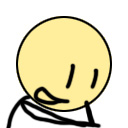
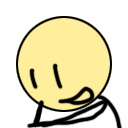
BR80-Fixed button timer, added disable, flipped Face_Working_2.jpg

Changed region(s): [[0.0312, 0.5312, 0.9688, 1.0], [0.4062, 0.4688, 0.5938, 0.7188]]

diff --git a/main.js b/main.js
@@ -1,37 +1,8 @@
 var app = angular.module("myApp", []);
 
-app.directive("superman", function() {
-    return {
-        restrict: "E",
-        template: "<div>Here I am to save the day</div>"
-    }
-})
-
-function Main($scope)
-{
-    $scope.message = "Hello!"
-
-}
-
-app.directive('tooltip', function () {
-    return {
-        restrict:'AEC',
-        link: function(scope, element, attrs)
-        {
-            $(element)
-                .attr('title',scope.$eval(attrs.tooltip))
-                .tooltip({placement: "right"});
-        }
-    }
-})
 
 
-$scope.clear = function () {
-    $scope.dt = null;
-};
-
-
-function ClassroomCtrl($scope,$timeout)
+app.controller('ClassroomCtrl', ['$scope', '$timeout', function($scope,$timeout)
 {
 	// Dictionary with game and player variables
 	$scope.game = {
@@ -42,24 +13,74 @@ function ClassroomCtrl($scope,$timeout)
 	// Array with students
 	$scope.students = [
         {
-                "name":"Riley"
+                "name":"Riley",
+                "math":1,
+                "reading":1,
+                "writing":1,
+                "discipline":1
         },
         {
-                "name":"Kelly"
+                "name":"Kelly",
+                "math":1,
+                "reading":1,
+                "writing":1,
+                "discipline":1
         },
         {
-                "name":"Alex"
+                "name":"Alex",
+                "math":1,
+                "reading":1,
+                "writing":1,
+                "discipline":1
         },
         {
-                "name":"Taylor"
+                "name":"Taylor",
+                "math":1,
+                "reading":1,
+                "writing":1,
+                "discipline":1
         },
         {
-                "name":"Morgan"
+                "name":"Morgan",
+                "math":1,
+                "reading":1,
+                "writing":1,
+                "discipline":1
         },
         {
-                "name":"Jesse"
+                "name":"Jesse",
+                "math":1,
+                "reading":1,
+                "writing":1,
+                "discipline":1
         }
 	];
+	
+	// Function to return a student entry in the array.
+	$scope.getStudent = function(studentName)
+	{
+		retString = ""
+		for (var i = 0 ; i < $scope.students.length ; i++)
+		{
+			if ($scope.students[i]["name"] == studentName)
+				return $scope.students[i];
+			else
+				retString += $scope.students[i]["name"];
+		}
+		return retString;
+	}
+	
+	// Generate tooltip text (shows stats)
+	$scope.studentTooltip = function(studentName)
+	{
+		var student = $scope.getStudent(studentName);
+		var retString = student["name"];
+        retString += "\nMath: " + student["math"];
+        retString += "\nReading: " + student["reading"];
+        retString += "\nWriting: " + student["writing"];
+        retString += "\nDiscipline: " + student["discipline"];
+        return retString;
+	}
 	
 
 	// Game Time functions
@@ -84,12 +105,15 @@ function ClassroomCtrl($scope,$timeout)
 	$scope.turnActive = false;  // This is true when a turn is taking place
 	$scope.takeTurn = function()
 	{
-		$scope.game["turn"]++;
-		$scope.turnActive = true;
-		$timeout($scope.onActionFinished,1000);	
+		if (!$scope.turnActive)
+		{
+			$scope.turnActive = true;
+			$timeout($scope.onActionFinished,1000);
+		}
 	}
 	$scope.onActionFinished = function()
 	{
+		$scope.game["turn"]++;
 		$scope.turnActive = false;
 	}
 	
@@ -103,4 +127,9 @@ function ClassroomCtrl($scope,$timeout)
 	{
 		return Math.floor(Math.random() * num2) + num1;
 	}
-}
+}]);
+
+
+
+
+

diff --git a/index.html b/index.html
@@ -10,26 +10,43 @@
 <body>
 
   <div ng-app="myApp">
-    
    <div ng-controller="ClassroomCtrl">
+   
+   
+   
+   
+   
 
    <!--Name of the class-->
-   <h2>{{game.name}}'s Class</h2>
+   <h1>{{game.name}}'s Class</h1>
    
    <!--Display the time-->
    Day {{getDay()}} ({{getTime()}})
+   <br></br>
 
    <!--Make action button-->
-   <button ng-click="takeTurn()">Take Turn {{turnActive}}</button>
+   <button ng-click="takeTurn()" ng-disabled=turnActive>Take Turn</button>
    
    <!--Make table containing student portraits-->
+   <br></br><br></br>
    <table style="width:300px">
    <tr>
    <td ng-repeat="student in students">
-         <img ng-src="img/Face_Neutral_{{RandomRange(1,3)}}.jpg" title="{{student.name}}"></img>
-         {{student.name}}
+         <h3>{{student.name}}</h3>
+         <img ng-src="img/Face_Neutral_{{RandomRange(1,3)}}.jpg" title="{{studentTooltip(student.name)}}"></img>
+         <br></br>Math: {{student.math}}
+         <br></br>Reading: {{student.reading}}
+         <br></br>Writing: {{student.writing}}
+         <br></br>Discipline: {{student.discipline}}
       </td>
       </tr>
+
+
+
+
+
+
+
    </div>
   </div>
 
